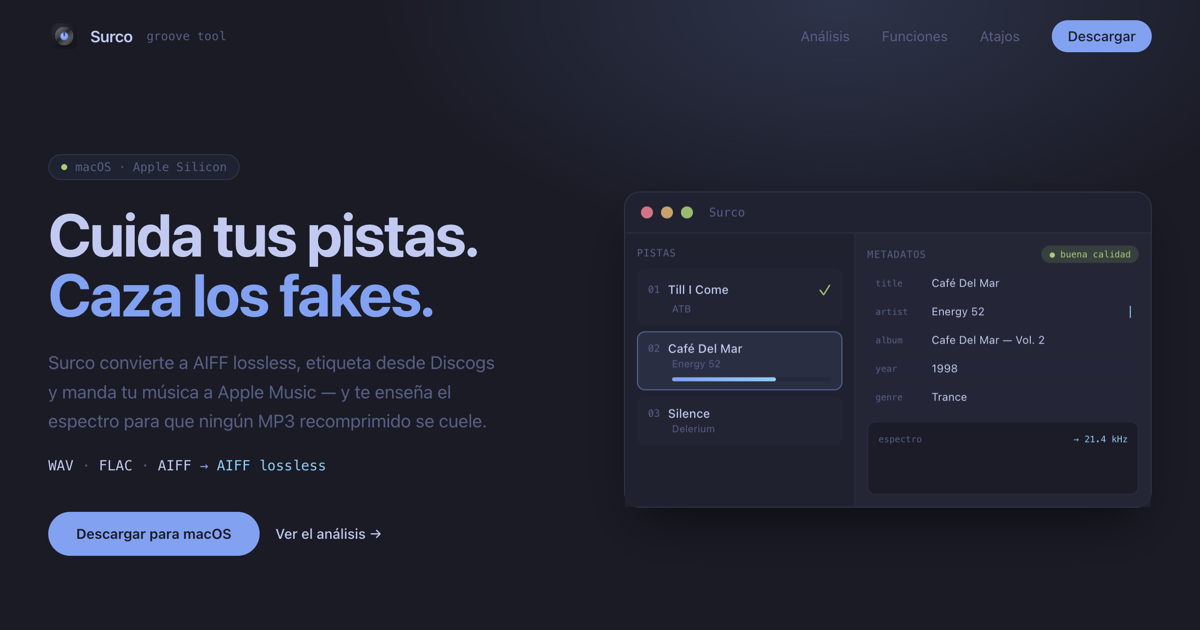
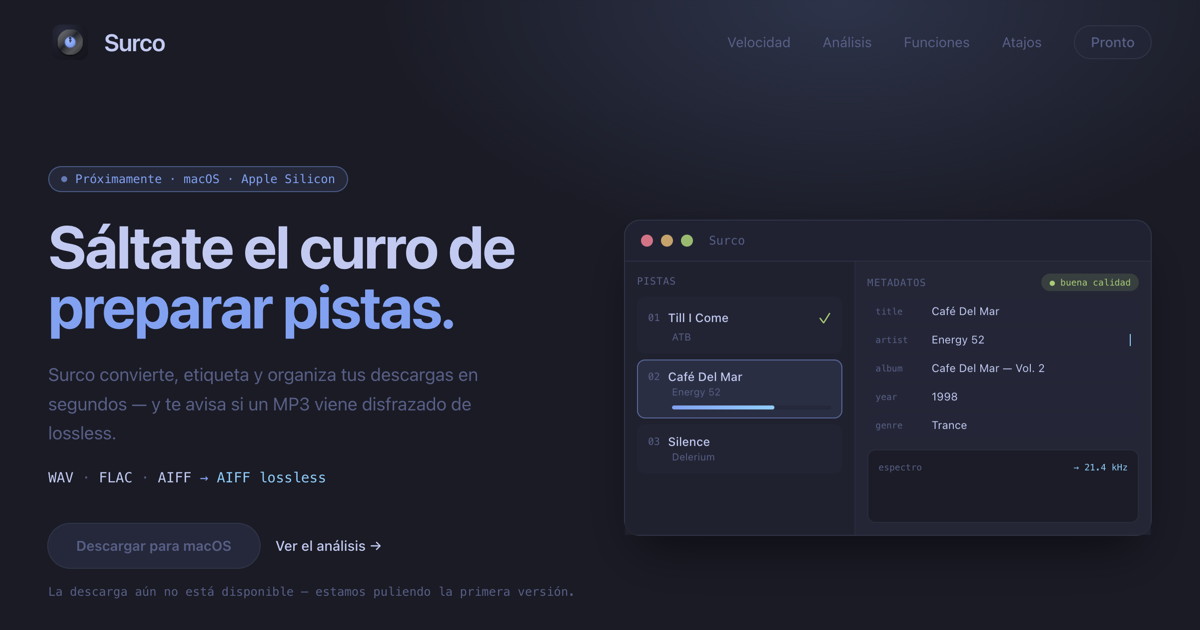
Reframe hero around workflow speed instead of caring for music

diff --git a/apps/web/index.html b/apps/web/index.html
@@ -7,10 +7,10 @@
     <meta name="viewport" content="width=device-width, initial-scale=1.0" />
     <meta name="theme-color" content="#1a1b26" />
     <meta name="robots" content="index, follow" />
-    <title>Surco — Cuida tus pistas, caza los fakes</title>
+    <title>Surco — Prepara tus pistas de DJ en segundos</title>
     <meta
       name="description"
-      content="Surco prepara tus pistas de DJ: las convierte a AIFF lossless, las etiqueta desde Discogs y las manda a Apple Music — y te enseña el espectro para cazar MP3 recomprimidos."
+      content="Surco automatiza la preparación de pistas para DJ: convierte a AIFF lossless, etiqueta desde Discogs y manda a Apple Music en segundos — y detecta MP3 recomprimidos disfrazados de lossless."
     />
     <link rel="canonical" href="https://getsurco.app/" />
 
@@ -18,20 +18,20 @@
     <meta property="og:site_name" content="Surco" />
     <meta property="og:locale" content="es_ES" />
     <meta property="og:url" content="https://getsurco.app/" />
-    <meta property="og:title" content="Surco — Cuida tus pistas, caza los fakes" />
+    <meta property="og:title" content="Surco — Prepara tus pistas de DJ en segundos" />
     <meta
       property="og:description"
-      content="Convierte a AIFF lossless, etiqueta desde Discogs y manda a Apple Music. Con análisis de espectro para detectar MP3 disfrazados de lossless."
+      content="Sáltate el curro de preparar pistas: convierte, etiqueta y organiza tus descargas en segundos. Y detecta MP3 disfrazados de lossless."
     />
     <meta property="og:image" content="https://getsurco.app/og.png" />
     <meta property="og:image:width" content="1200" />
     <meta property="og:image:height" content="630" />
 
     <meta name="twitter:card" content="summary_large_image" />
-    <meta name="twitter:title" content="Surco — Cuida tus pistas, caza los fakes" />
+    <meta name="twitter:title" content="Surco — Prepara tus pistas de DJ en segundos" />
     <meta
       name="twitter:description"
-      content="Convierte a AIFF lossless, etiqueta desde Discogs y manda a Apple Music. Con análisis de espectro para detectar MP3 disfrazados de lossless."
+      content="Sáltate el curro de preparar pistas: convierte, etiqueta y organiza tus descargas en segundos. Y detecta MP3 disfrazados de lossless."
     />
     <meta name="twitter:image" content="https://getsurco.app/og.png" />
 

diff --git a/apps/web/src/App.tsx b/apps/web/src/App.tsx
@@ -68,13 +68,13 @@ export default function App() {
               Próximamente · macOS · Apple Silicon
             </div>
             <h1 className="mt-6 text-4xl font-bold tracking-tight sm:text-6xl">
-              Cuida tus pistas.
+              Sáltate el curro de
               <br />
-              <span className="text-blue">Caza los fakes.</span>
+              <span className="text-blue">preparar pistas.</span>
             </h1>
             <p className="mt-6 max-w-md text-lg leading-relaxed text-muted">
-              Surco convierte a AIFF lossless, etiqueta desde Discogs y manda tu música a Apple Music
-              — y te enseña el espectro para que ningún MP3 recomprimido se cuele.
+              Surco convierte, etiqueta y organiza tus descargas en segundos — y te avisa si un MP3
+              viene disfrazado de lossless.
             </p>
             <div className="mt-5 font-mono text-sm text-muted">
               <span className="text-fg">WAV</span> · <span className="text-fg">FLAC</span> ·{' '}